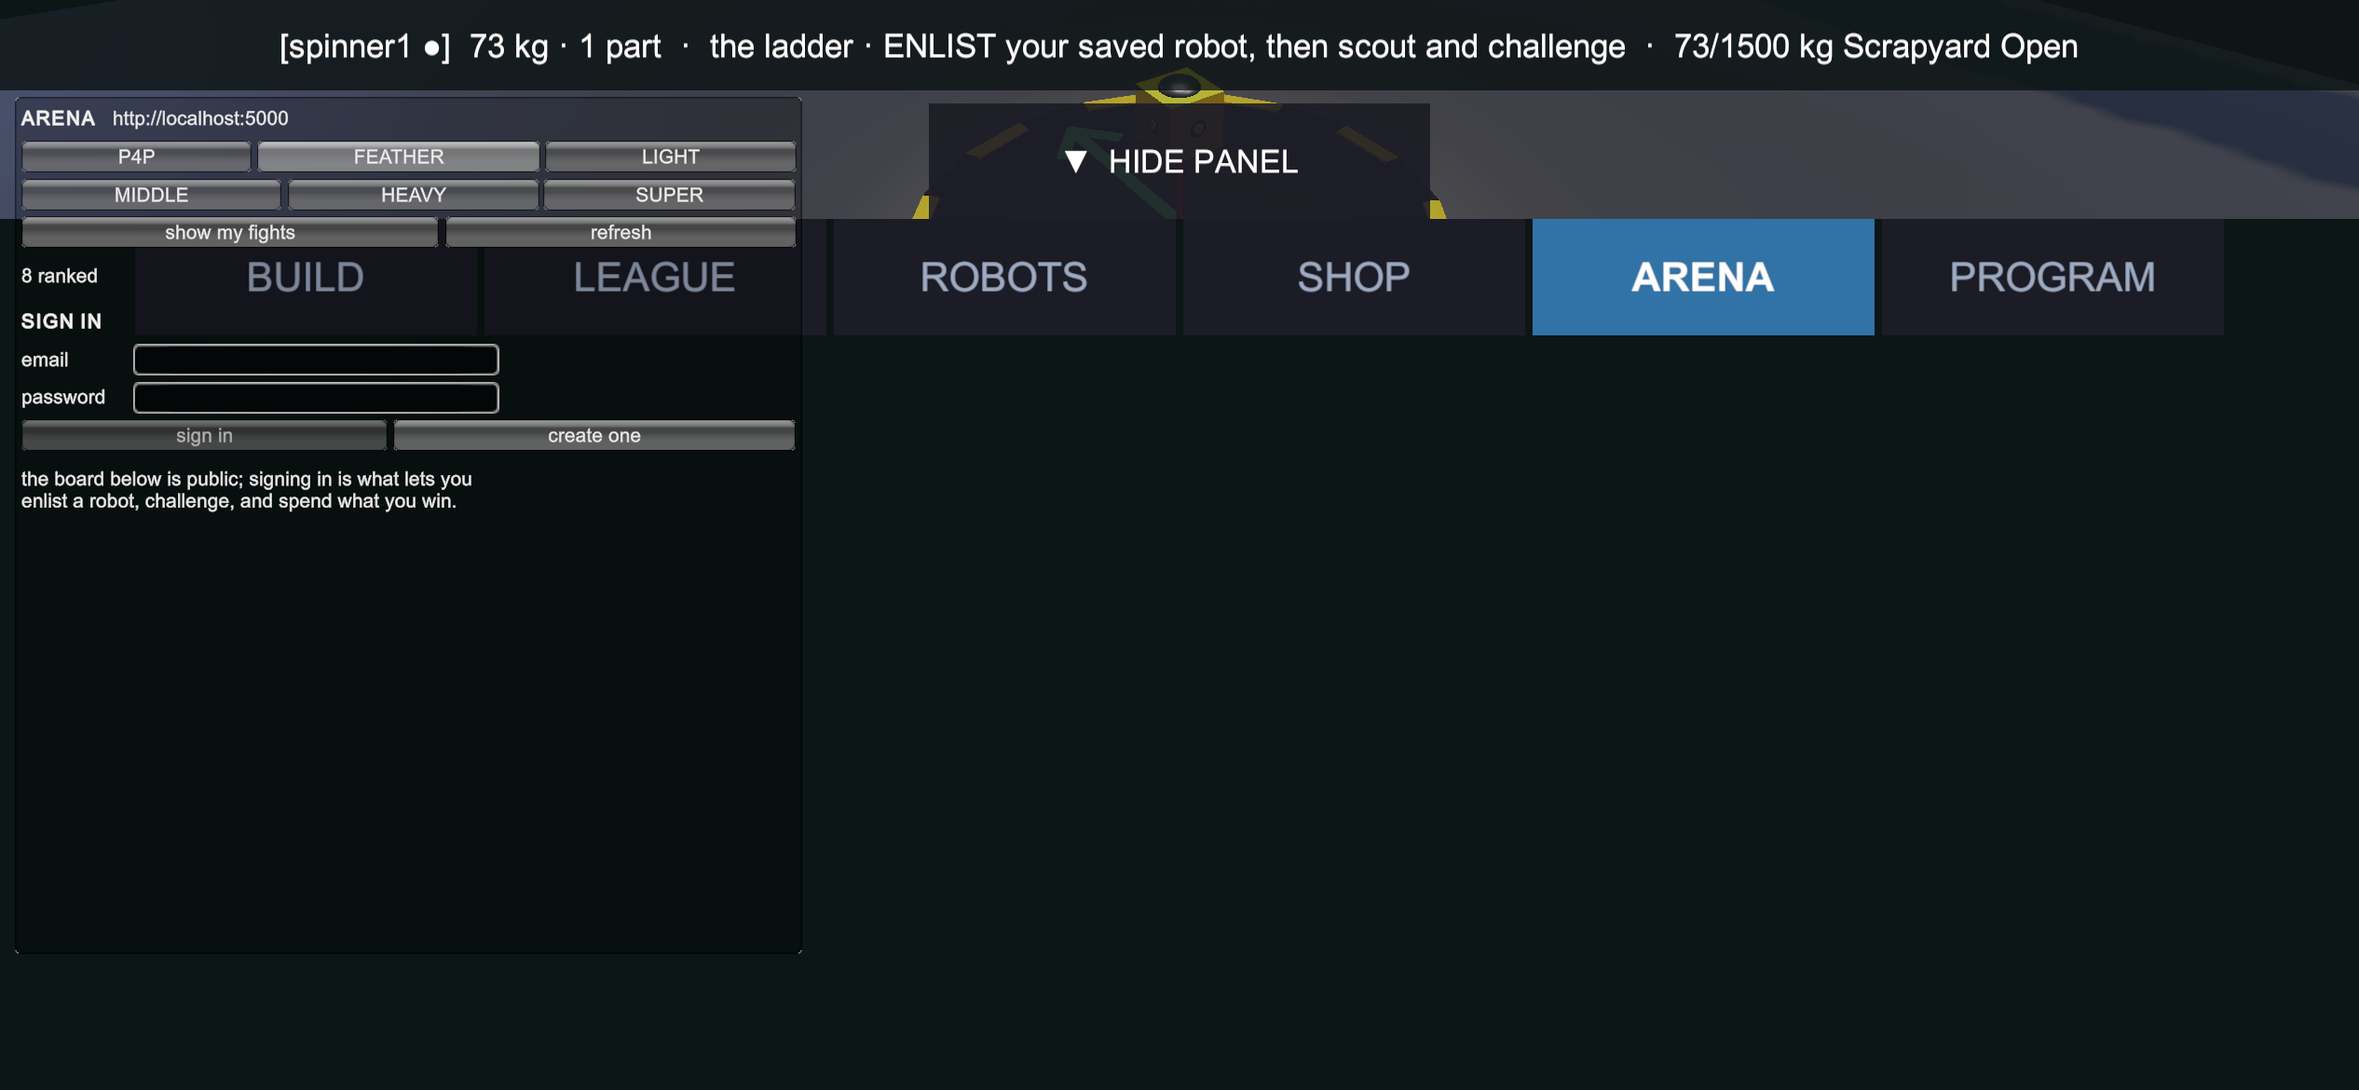
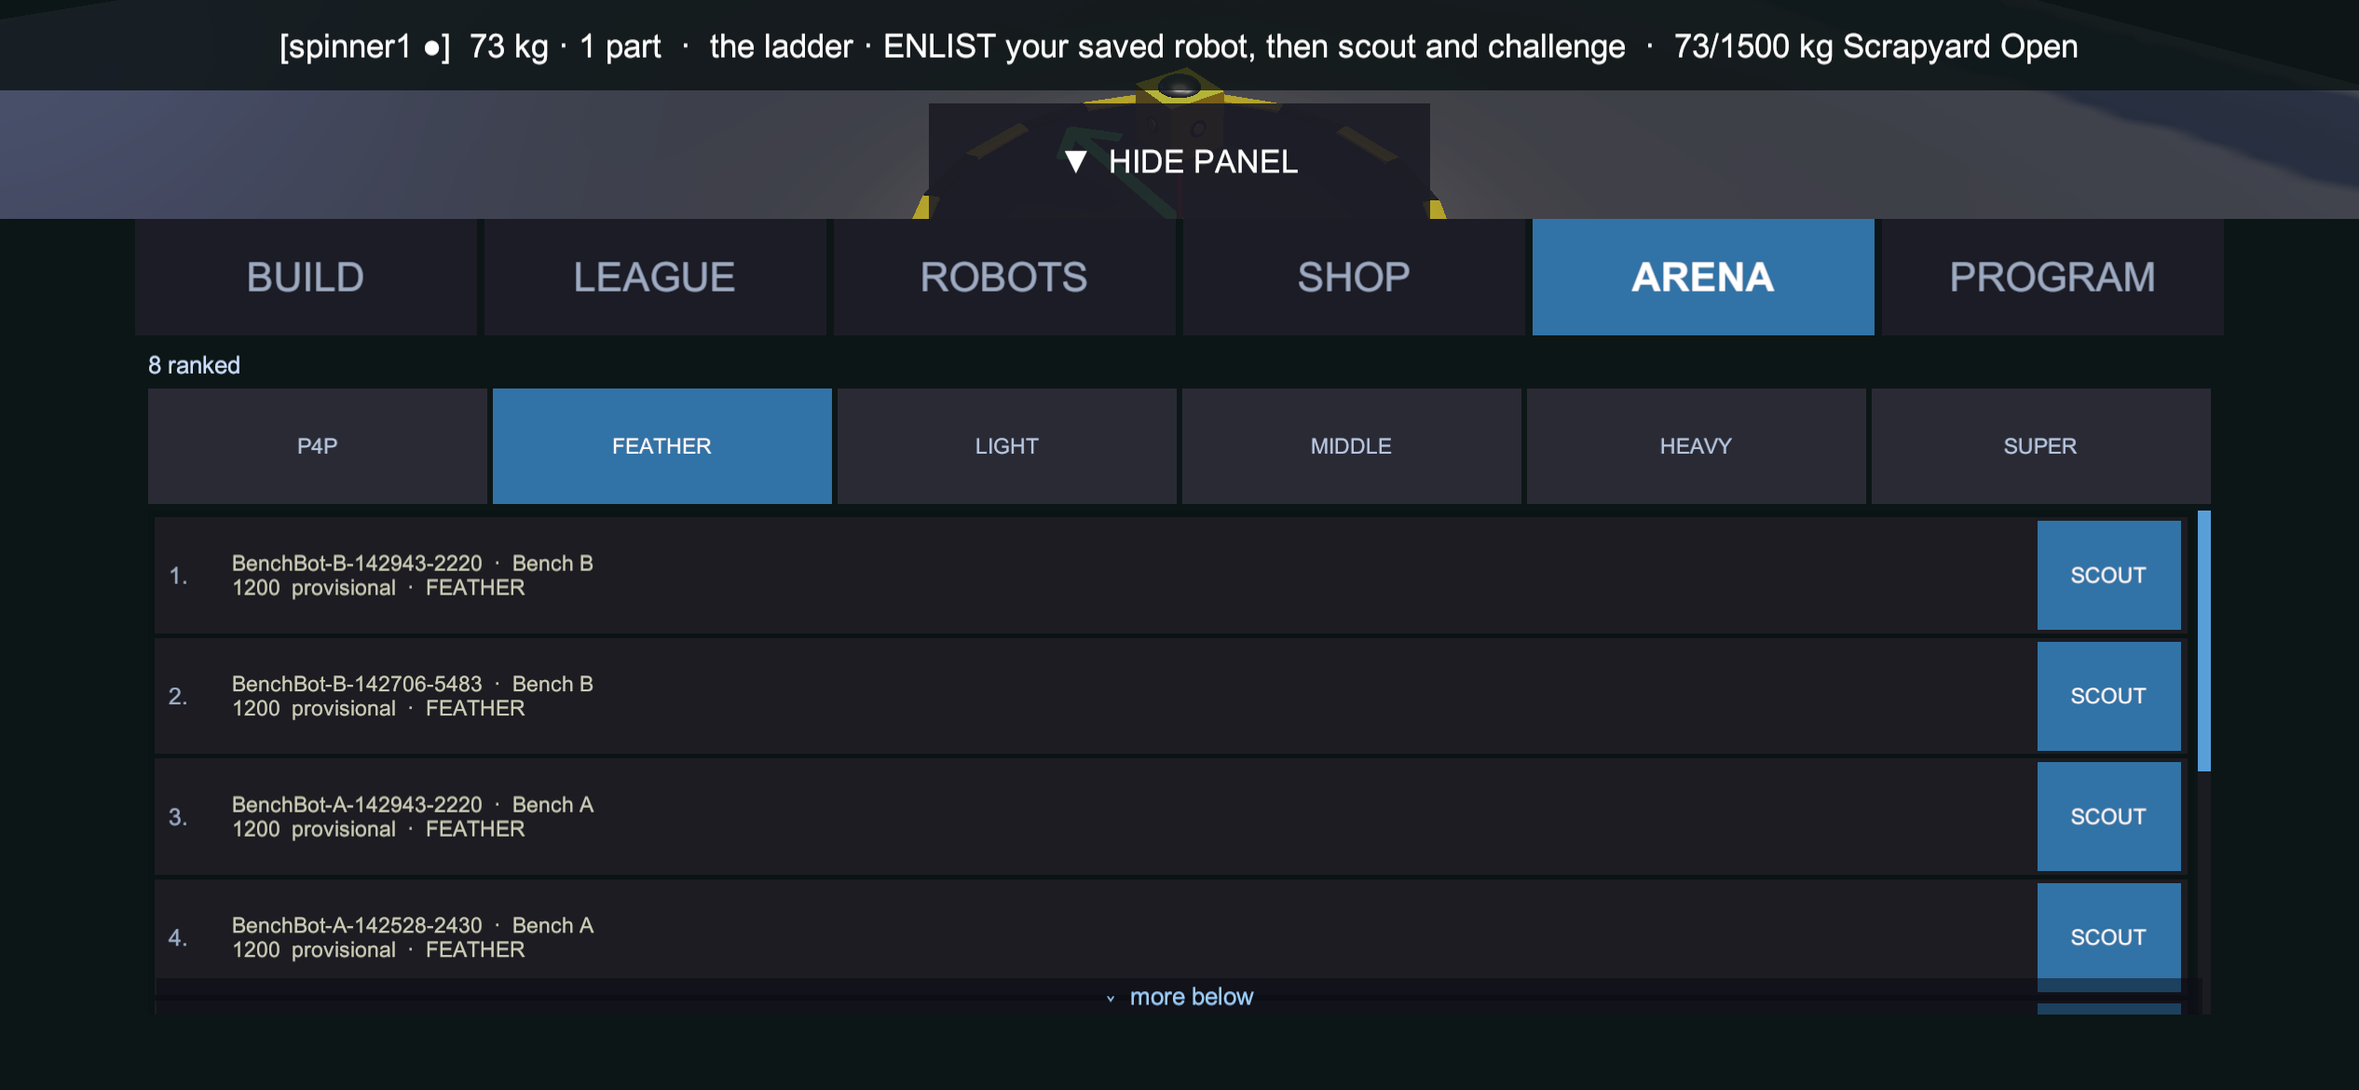
The ARENA board is UGUI now, and it looks like the rest of the game
owen: "redesign the arena UI to be consistent with other tabs."

Surface 1 of 5. The board is the surface the tab opens on, the one every other
ARENA surface is reached through, and the one a player looks at longest.

It was IMGUI drawn over the game at a fixed rect, which is why it collided
with the tab strip and the tutorial banner, ignored the notch, and was
invisible to TouchSmoke. None of that is reachable by moving numbers — the
fixes are all downstream of being in the dock. Now it is: six weight-class
filters at TouchRow height, rows at touch height with SCOUT styled like the
LEAGUE board's, and the dock's own overflow hint.

THE PORT REPLACES THE DRAWING AND NOTHING ELSE. Refresh, Scout, DoChallenge,
DoEnlist, Watch and DoAuth stay exactly where they were; ArenaScreen now
exposes the model and the operations, and the dock renders from them. A second
copy of the challenge flow is the one-side-only fix this project calls its
signature bug, and a ladder that settles stakes is the worst place to keep two.

SuppressImgui is set only while the dock can draw the surface being shown, so
the four un-ported surfaces still come up in IMGUI. Nothing is missing
mid-port; it is a fallback, not a gap.

Two things carried over from the shop switch on purpose: the filter row is
flexibleHeight 0 (a LayoutElement's -1 default is how the SHOP switch ate a
third of the dock), and it is re-applied in ApplyTouchSizes because TouchRow()
[…]

diff --git a/Assets/Phase1/Scripts/MobileBuilderUI.cs b/Assets/Phase1/Scripts/MobileBuilderUI.cs
@@ -105,6 +105,18 @@ public class MobileBuilderUI : MonoBehaviour
     // the network in Start(), and constructing it for a player who never
     // opens the tab would be a request nobody asked for.
     ArenaScreen arenaScreen;
+    // ---- the ARENA, ported to UGUI one surface at a time -----------------
+    // The BOARD is first: it is the surface the tab opens on, the one every
+    // other ARENA surface is reached THROUGH, and the one a player looks at
+    // for longest. Whatever is not ported yet still draws in IMGUI —
+    // ArenaScreen.SuppressImgui is only set once the dock can render the
+    // surface being shown, so nothing is ever simply missing.
+    GameObject arenaPanel;
+    Transform arenaBoardContent;
+    Text arenaStatus;
+    readonly List<Button> arenaCatBtns = new List<Button>();
+    LayoutElement arenaCatLE;
+    int arenaBoardStamp = -1;   // rebuild the rows only when the board changes
     // ---- P3a: the Program Bench canvas (career-only tab, index 5) ----
     GameObject programPanel; ProgramCanvas programCanvas;
     InputField nameInput;
@@ -409,9 +421,9 @@ public class MobileBuilderUI : MonoBehaviour
         garagePanel = MkPanel("garage", dock.transform, new Color(0f, 0f, 0f, 0f));
         shopPanel = MkPanel("shop", dock.transform, new Color(0f, 0f, 0f, 0f));
         robotsPanel = MkPanel("robots", dock.transform, new Color(0f, 0f, 0f, 0f));
-        // no trophies panel: ARENA is index 4 and draws in OnGUI, not UGUI.
+        arenaPanel = MkPanel("arena", dock.transform, new Color(0f, 0f, 0f, 0f));
         programPanel = MkPanel("program", dock.transform, new Color(0f, 0f, 0f, 0f));   // P3a
-        foreach (var p in new[] { buildPanel, fightPanel, garagePanel, shopPanel, robotsPanel, programPanel })
+        foreach (var p in new[] { buildPanel, fightPanel, garagePanel, shopPanel, robotsPanel, arenaPanel, programPanel })
         {
             var rt = p.GetComponent<RectTransform>();
             rt.anchorMin = new Vector2(0f, 0f); rt.anchorMax = new Vector2(1f, 1f);
@@ -427,8 +439,7 @@ public class MobileBuilderUI : MonoBehaviour
         if (!Career.active) BuildGarageTab();
         BuildShopTab();
         BuildRobotsTab();
-        // BuildTrophiesTab() is gone: ARENA owns index 4 and builds itself in
-        // ShowTab, and the medals moved into the LEAGUE board.
+        BuildArenaTab();
         // P3a: career-only, the C6.5 rule (never build career UI the sandbox
         // can mis-hit; the garage is the same rule in reverse).
         if (Career.active) BuildProgramTab();
@@ -1760,7 +1771,7 @@ public class MobileBuilderUI : MonoBehaviour
             if (rt != null) rt.sizeDelta = new Vector2(-4f, R);
         }
         foreach (var pn in new[] { buildPanel, fightPanel, garagePanel, shopPanel,
-                                   robotsPanel })
+                                   robotsPanel, arenaPanel })
         {
             if (pn == null) continue;
             var rt = pn.GetComponent<RectTransform>();
@@ -1779,6 +1790,9 @@ public class MobileBuilderUI : MonoBehaviour
         // the same rule: one touch row, tracked against the scale factor.
         if (shopSecLE != null)
         { shopSecLE.flexibleHeight = 0f; shopSecLE.minHeight = R; shopSecLE.preferredHeight = R; }
+        // Same rule for the ARENA's weight-class filters.
+        if (arenaCatLE != null)
+        { arenaCatLE.flexibleHeight = 0f; arenaCatLE.minHeight = R; arenaCatLE.preferredHeight = R; }
         if (partScrollRt != null)
         {
             partScrollRt.offsetMin = new Vector2(0f, R + 4f);
@@ -2308,6 +2322,152 @@ public class MobileBuilderUI : MonoBehaviour
         BuildCosmeticsShelf();
         ShowShopSection(0);
         RefreshShop();
+    }
+
+    /// <summary>The ARENA tab, in UGUI. Surface 1 of 5: the BOARD.
+    ///
+    /// Built like every other tab — a header, a row of weight-class filters
+    /// sized to TouchRow(), and a scrolled list — so it inherits the dock's
+    /// safe-area handling, its touch floor, and the benches that measure both.
+    /// The IMGUI ArenaScreen keeps the surfaces that are not ported yet.</summary>
+    void BuildArenaTab()
+    {
+        var v = arenaPanel.AddComponent<VerticalLayoutGroup>();
+        v.spacing = 4f; v.childForceExpandWidth = true; v.childForceExpandHeight = false;
+        v.padding = new RectOffset(4,4,4,4);
+
+        arenaStatus = MkText("arenastatus", arenaPanel.transform, "", 15, TextAnchor.MiddleLeft);
+        var hle = arenaStatus.gameObject.AddComponent<LayoutElement>();
+        hle.minHeight = 20f; hle.preferredHeight = 20f; hle.flexibleHeight = 0f;
+
+        // The weight classes. P4P first — it is the board the tab opens on,
+        // and "everyone, pound for pound" is the only view that is never empty.
+        var catRow = MkPanel("arenacats", arenaPanel.transform, new Color(0f,0f,0f,0f));
+        arenaCatLE = catRow.AddComponent<LayoutElement>();
+        arenaCatLE.flexibleHeight = 0f;                 // see the SHOP switch: -1 eats the dock
+        arenaCatLE.minHeight = TouchRow(); arenaCatLE.preferredHeight = TouchRow();
+        var ch = catRow.AddComponent<HorizontalLayoutGroup>();
+        ch.spacing = 3f; ch.childForceExpandWidth = true; ch.childForceExpandHeight = true;
+        arenaCatBtns.Clear();
+        var cats = ArenaScreen.Categories;
+        for (int i = 0; i < cats.Length; i++)
+        {
+            int idx = i;
+            string label = cats[i] == "" ? "P4P" : cats[i];
+            var b = MkButton("arenacat_" + label, catRow.transform, label, 13,
+                             () => { if (arenaScreen != null) arenaScreen.SetCategory(idx); });
+            arenaCatBtns.Add(b);
+        }
+
+        var scrollGO = MkPanel("arenascroll", arenaPanel.transform, new Color(0f,0f,0f,0f));
+        var sle = scrollGO.AddComponent<LayoutElement>(); sle.flexibleHeight = 1f; sle.minHeight = 96f;
+        var scroll = scrollGO.AddComponent<ScrollRect>(); scroll.horizontal = false; scroll.vertical = true;
+        var viewport = MkPanel("arenaviewport", scrollGO.transform, new Color(0f,0f,0f,0.15f));
+        var vp = viewport.GetComponent<RectTransform>(); Stretch(vp);
+        viewport.AddComponent<Mask>().showMaskGraphic = true;
+        var content = MkPanel("arenacontent", viewport.transform, new Color(0f,0f,0f,0f));
+        var crt = content.GetComponent<RectTransform>();
+        crt.anchorMin = new Vector2(0f,1f); crt.anchorMax = new Vector2(1f,1f);
+        crt.pivot = new Vector2(0.5f,1f); crt.anchoredPosition = Vector2.zero;
+        crt.sizeDelta = new Vector2(0f, 0f);
+        var clg = content.AddComponent<VerticalLayoutGroup>();
+        clg.spacing = 3f; clg.childForceExpandWidth = true; clg.childForceExpandHeight = false;
+        clg.padding = new RectOffset(4,4,4,4);
+        var csf = content.AddComponent<ContentSizeFitter>(); csf.verticalFit = ContentSizeFitter.FitMode.PreferredSize;
+        scroll.viewport = vp; scroll.content = crt;
+        AddListOverflow(scrollGO, scroll, vp);   // R2 finding 8: ARENA
+        arenaBoardContent = content.transform;
+    }
+
+    /// <summary>Repaint the ARENA board. Cheap every frame EXCEPT when the
+    /// board actually changed — rebuilding a scrolled list under the player's
+    /// finger every frame is how a list stops being scrollable.</summary>
+    void RefreshArena()
+    {
+        if (arenaScreen == null || arenaBoardContent == null) return;
+
+        if (arenaStatus != null)
+        {
+            string s = arenaScreen.Status;
+            arenaStatus.text = string.IsNullOrEmpty(s)
+                ? arenaScreen.CategoryLabel + " · " + arenaScreen.Board.Count + " ranked"
+                : s;
+            arenaStatus.color = new Color(0.80f, 0.88f, 1f);
+        }
+        for (int i = 0; i < arenaCatBtns.Count; i++)
+        {
+            var b = arenaCatBtns[i];
+            if (b == null) continue;
+            bool on = i == arenaScreen.CategoryIndex;
+            var img = b.GetComponent<Image>();
+            if (img != null) img.color = on ? new Color(0.20f,0.45f,0.65f,1f) : new Color(0.16f,0.17f,0.21f,1f);
+            var t = b.GetComponentInChildren<Text>();
+            if (t != null) t.color = on ? Color.white : new Color(0.72f,0.78f,0.88f);
+        }
+
+        // A cheap identity for "the list changed": count, category, and the
+        // first row's snapshot. Enough to catch a reload, and it costs nothing.
+        var board = arenaScreen.Board;
+        int stamp = board.Count * 31 + arenaScreen.CategoryIndex * 7
+                  + (board.Count > 0 ? board[0].activeSnapshotId.GetHashCode() : 0);
+        if (stamp == arenaBoardStamp) return;
+        arenaBoardStamp = stamp;
+
+        for (int i = arenaBoardContent.childCount - 1; i >= 0; i--)
+            Destroy(arenaBoardContent.GetChild(i).gameObject);
+
+        if (board.Count == 0)
+        {
+            // ⚠ "nobody ranked here yet" and "the request failed" look
+            // identical in an empty list, and LadderClientBench's header calls
+            // that out as the worst failure mode this client has. The status
+            // line above carries the error; this says only what an EMPTY board
+            // means, and never pretends a failure is an empty ladder.
+            var erow = MkPanel("arena_empty", arenaBoardContent, new Color(0.13f,0.14f,0.18f,0.9f));
+            var ele = erow.AddComponent<LayoutElement>(); ele.minHeight = 52f; ele.preferredHeight = 52f;
+            var et = MkText("lbl", erow.transform,
+                "nobody ranked in " + arenaScreen.CategoryLabel + " yet.\n"
+                + "ENLIST a robot to be the first.", 14, TextAnchor.MiddleLeft);
+            et.color = new Color(0.78f, 0.82f, 0.90f);
+            Stretch(et.rectTransform);
+            et.rectTransform.offsetMin = new Vector2(10f, 2f); et.rectTransform.offsetMax = new Vector2(-10f, -2f);
+            return;
+        }
+
+        for (int i = 0; i < board.Count; i++)
+        {
+            var e = board[i];
+            var row = MkPanel("arenarow_" + i, arenaBoardContent, new Color(0.10f,0.11f,0.14f,1f));
+            var rle = row.AddComponent<LayoutElement>(); rle.minHeight = TouchRow(); rle.preferredHeight = TouchRow();
+            var rh = row.AddComponent<HorizontalLayoutGroup>();
+            rh.spacing = 4f; rh.childForceExpandHeight = true; rh.childForceExpandWidth = false;
+            rh.padding = new RectOffset(8,4,2,2);
+
+            var rank = MkText("rank", row.transform, e.rank + ".", 14, TextAnchor.MiddleLeft);
+            rank.color = new Color(0.62f, 0.68f, 0.78f);
+            rank.gameObject.AddComponent<LayoutElement>().minWidth = 34f;
+
+            // Name and owner on one line, the rating and its CONFIDENCE on the
+            // next. A 1400 at RD 350 has not earned what a 1400 at RD 60 has,
+            // and the board must not flatter the difference away.
+            var lbl = MkText("lbl", row.transform,
+                e.robotName + "  ·  " + e.owner + "\n"
+                + Mathf.RoundToInt(e.rating) + "  "
+                + (e.provisional ? "provisional" : "±" + Mathf.RoundToInt(e.deviation))
+                + "  ·  " + e.category,
+                13, TextAnchor.MiddleLeft);
+            lbl.color = e.provisional ? new Color(0.80f, 0.80f, 0.72f) : new Color(0.88f, 0.92f, 1f);
+            lbl.gameObject.AddComponent<LayoutElement>().flexibleWidth = 1f;
+
+            if (!string.IsNullOrEmpty(e.activeSnapshotId))
+            {
+                var ee = e;
+                var sb = MkButton("arenascout_" + i, row.transform, "SCOUT", 13,
+                                  () => { if (arenaScreen != null) arenaScreen.ScoutNow(ee); });
+                sb.gameObject.AddComponent<LayoutElement>().minWidth = 86f;
+                sb.GetComponent<Image>().color = new Color(0.20f,0.45f,0.65f,1f);
+            }
+        }
     }
 
     /// <summary>The COSMETICS shelf: same dock, different currency. Its rows
@@ -3097,7 +3257,17 @@ public class MobileBuilderUI : MonoBehaviour
             ago.transform.SetParent(transform, false);
             arenaScreen = ago.AddComponent<ArenaScreen>();
         }
-        if (arenaScreen != null) arenaScreen.enabled = wantArena;
+        if (arenaScreen != null)
+        {
+            arenaScreen.enabled = wantArena;
+            // The BOARD is ported, so the IMGUI must not also draw it — two
+            // renderers of one list is a doubled screen, not a fallback. The
+            // un-ported surfaces (card, inbox, sign-in, enlist) still need it,
+            // so this flips back the moment one of them is asked for.
+            arenaScreen.SuppressImgui = wantArena;
+        }
+        if (arenaPanel != null) arenaPanel.SetActive(wantArena);
+        if (wantArena) { arenaBoardStamp = -1; RefreshArena(); }
 
         if (i == 3) { shopNote = ""; shopNoteBad = false; RefreshShop(); }
         if (robots) RefreshRobots();
@@ -3150,6 +3320,11 @@ public class MobileBuilderUI : MonoBehaviour
     void Update()
     {
         if (bm == null) { bm = Object.FindFirstObjectByType<BuilderManager>(); if (bm == null) return; }
+        // The ARENA board arrives from the network, so it lands mid-frame with
+        // nobody to tell. Polled rather than pushed: RefreshArena is a no-op
+        // unless the list actually changed, and a callback into a UI that may
+        // have been torn down by a tab switch is the more expensive mistake.
+        if (tab == 4 && dockOpen && arenaPanel != null && arenaPanel.activeSelf) RefreshArena();
         // Watch the canvas SIZE as well as the scale factor. Switching the
         // simulated device changes both, but a rotation changes only the size,
         // and the palette's column width is derived from the viewport width -

diff --git a/Assets/Phase1/Scripts/ArenaScreen.cs b/Assets/Phase1/Scripts/ArenaScreen.cs
@@ -270,8 +270,59 @@ namespace RobotBrawl.Phase0
         // expected does not clip.
         const int ROW_CHROME = 6 * 4 + 16 + 12 + 18;
 
+        // ===================================================================
+        // THE UGUI SEAM — 2026-08-10, and the port begins here.
+        //
+        // owen: "redesign the arena UI to be consistent with other tabs."
+        // Every other tab is UGUI in the dock; this screen is IMGUI drawn over
+        // the top at a fixed rect, which is why it collides with the tab strip
+        // and the tutorial banner, ignores the notch, and is invisible to
+        // TouchSmoke — none of which is fixable by moving numbers.
+        //
+        // ⚠ THE PORT REPLACES THE DRAWING AND NOTHING ELSE. Refresh, Scout,
+        // DoChallenge, DoEnlist, Watch and DoAuth stay exactly where they are,
+        // and the UGUI renderer drives them through the surface below. A
+        // second copy of the challenge flow is the "one-side-only fix" this
+        // project calls its signature bug, and a ladder that settles stakes
+        // is the worst possible place to keep two of them.
+        //
+        // So this class becomes the MODEL and the OPERATIONS; who draws it is
+        // now a caller's problem. Surfaces are ported one at a time and the
+        // IMGUI stays live for whatever is not ported yet.
+        // ===================================================================
+
+        /// <summary>Stop drawing, keep working. The dock sets this when it
+        /// renders the ARENA itself; unset, the IMGUI fallback still draws,
+        /// so a surface that has not been ported is never simply missing.</summary>
+        public bool SuppressImgui;
+
+        public IReadOnlyList<LadderEntry> Board { get { return board; } }
+        public IReadOnlyList<InboxEntry> Inbox { get { return inbox; } }
+        public IReadOnlyList<MyRobot> MyRobots { get { return mine; } }
+        public ScoutCard Card { get { return card; } }
+        public string Status { get { return status; } }
+        public bool Busy { get { return busy; } }
+        public string CategoryLabel { get { return Cats[catIndex] == "" ? "P4P" : Cats[catIndex]; } }
+        public static string[] Categories { get { return Cats; } }
+        public int CategoryIndex { get { return catIndex; } }
+
+        /// <summary>Switch the board's weight class and reload it. Ignores a
+        /// repeat of the current class rather than spending a request on it.</summary>
+        public void SetCategory(int i)
+        {
+            if (i < 0 || i >= Cats.Length || i == catIndex || busy) return;
+            catIndex = i;
+            StartCoroutine(Refresh());
+        }
+
+        public void RefreshNow() { if (!busy) StartCoroutine(Refresh()); }
+        public void ScoutNow(LadderEntry e) { if (!busy) StartCoroutine(Scout(e)); }
+        public void WatchNow(InboxEntry m) { if (!busy) StartCoroutine(Watch(m)); }
+        public void CloseCard() { card = null; pending = false; }
+
         void OnGUI()
         {
+            if (SuppressImgui) return;
             float scale = Screen.height / VirtualH;
             var prev = GUI.matrix;
             GUI.matrix = Matrix4x4.TRS(Vector3.zero, Quaternion.identity,
